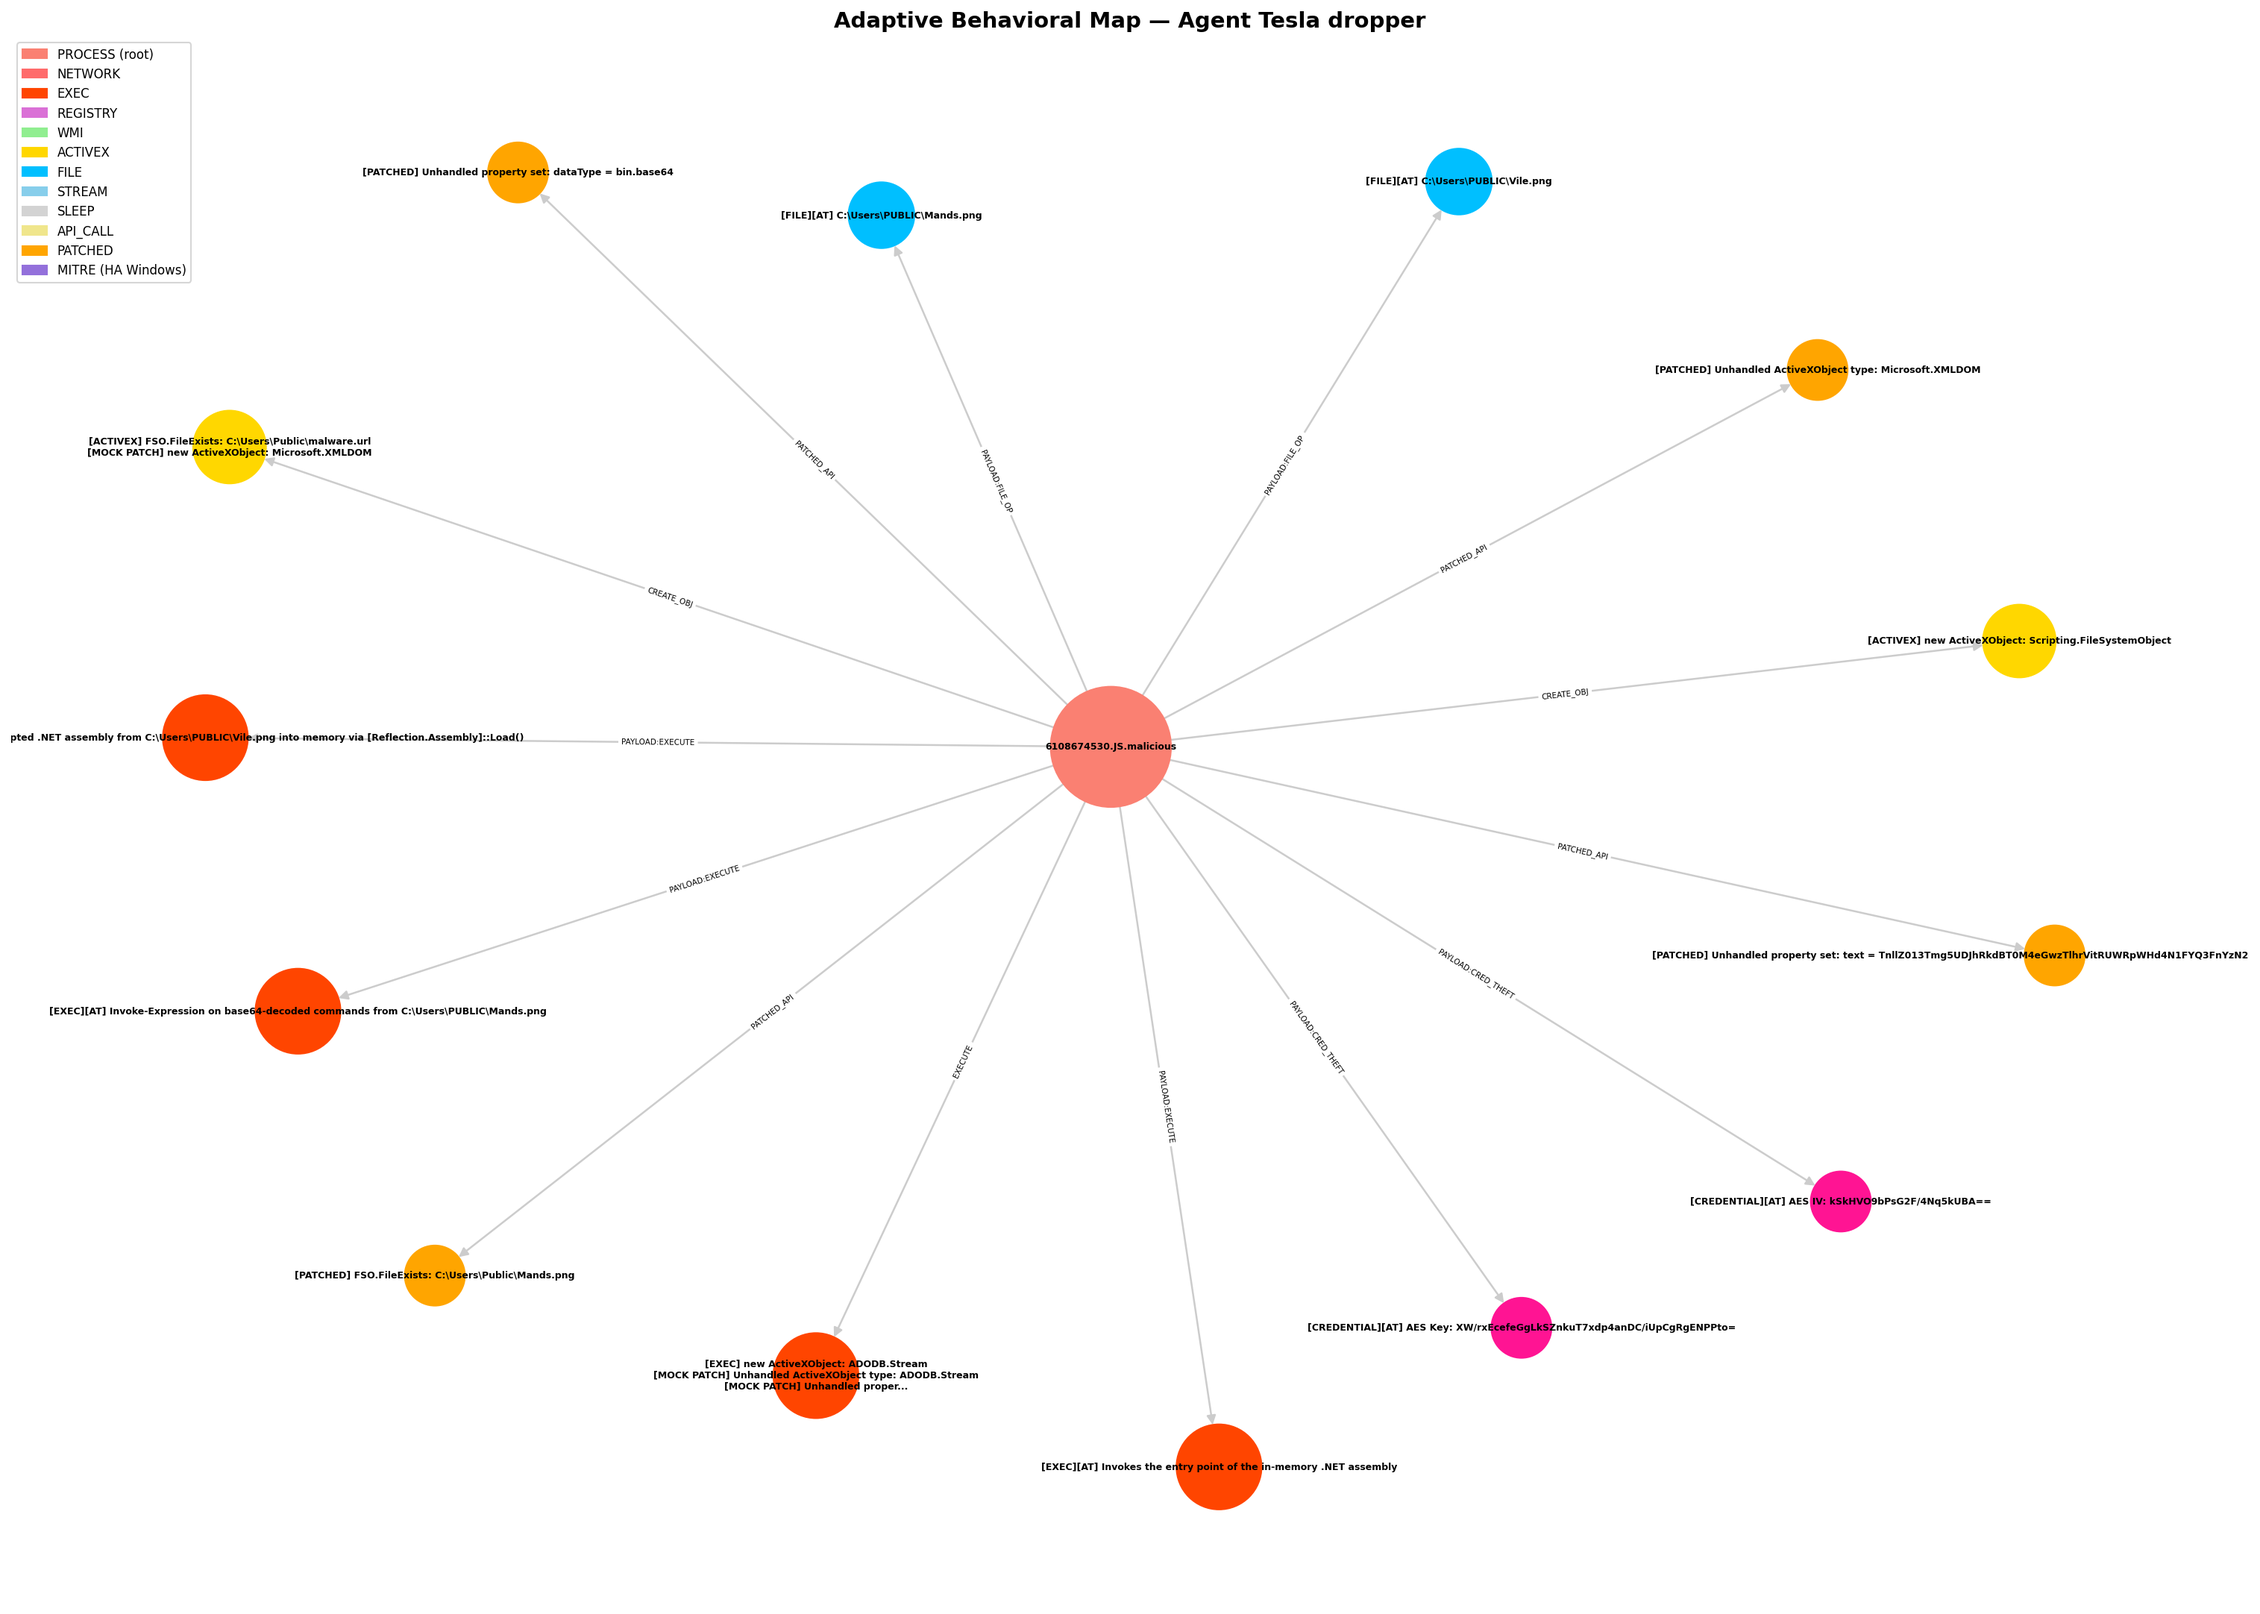
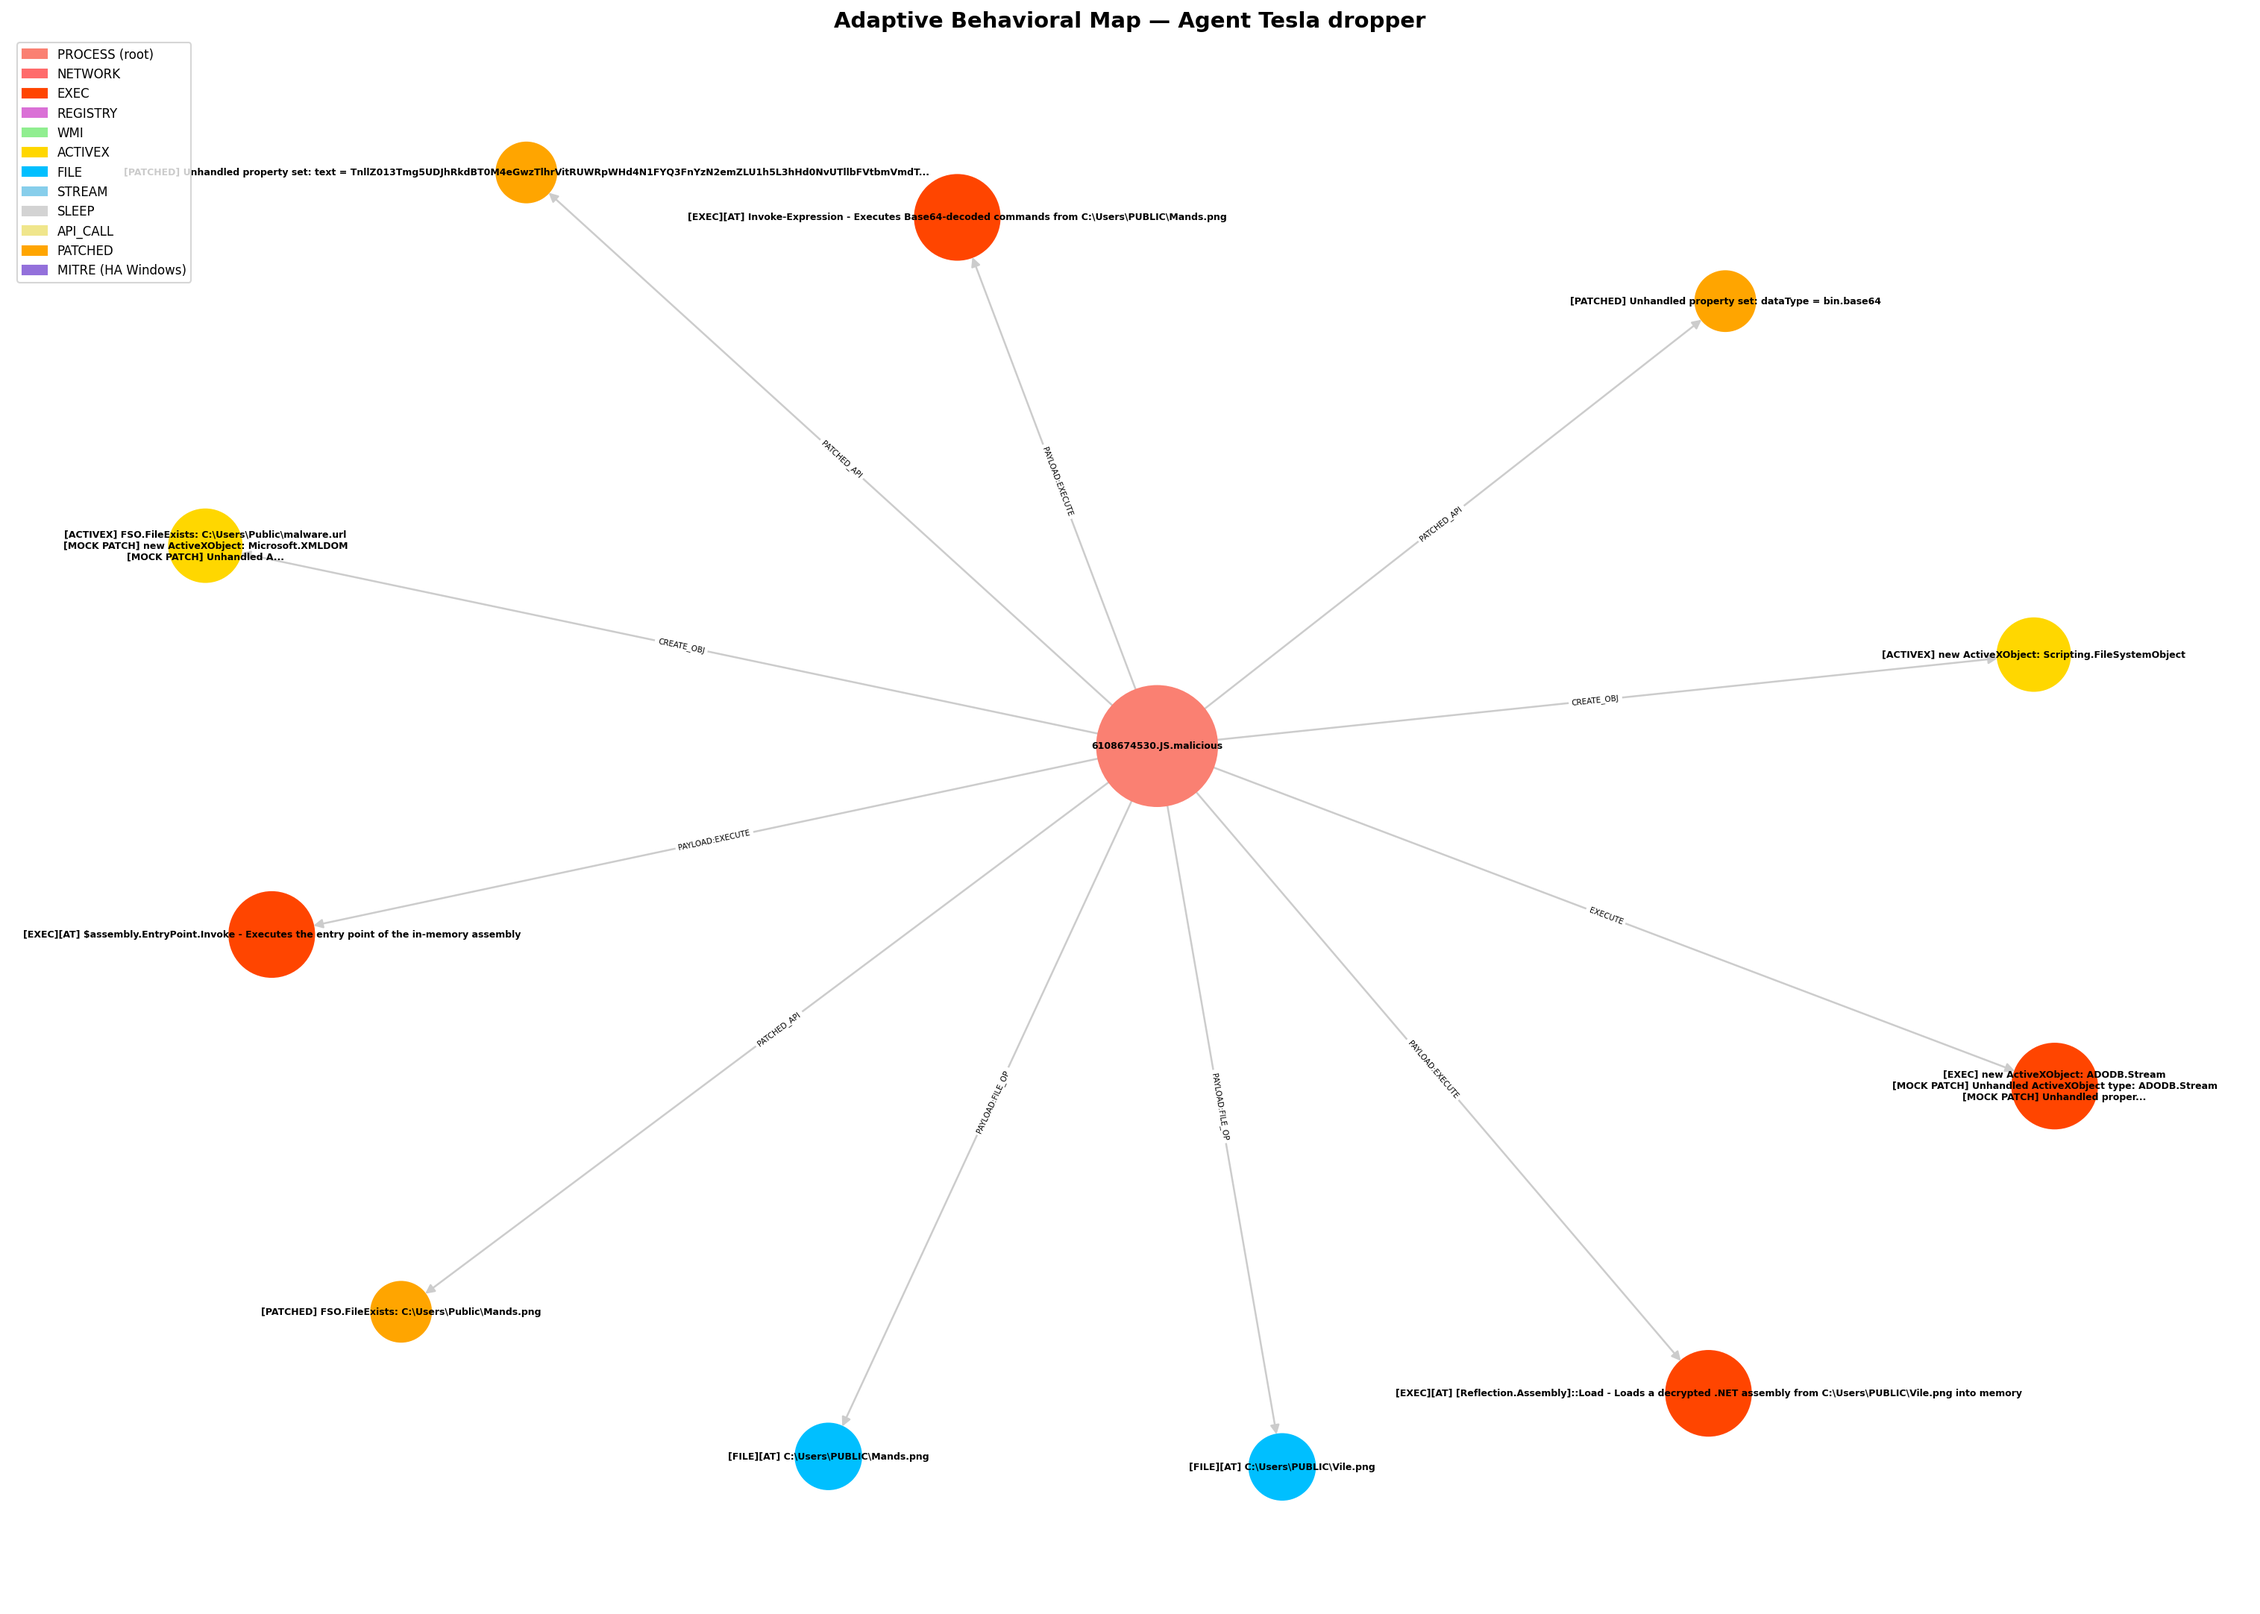
testing api -> deadend

diff --git a/testing/e2b_adaptive_sandbox.py b/testing/e2b_adaptive_sandbox.py
@@ -1006,53 +1006,87 @@ def hybrid_analysis_enrich(filename: str, G: nx.DiGraph):
     # --- Step 1: search for an existing Windows report by hash ---
     print(f"\n[HA] Searching for existing report (SHA256: {sha256[:16]}...)")
     job_id = None
+
+    def _parse_search_results(raw):
+        """Extract job_id from any HA search/overview response shape."""
+        nonlocal job_id
+        results = raw.get("result", raw) if isinstance(raw, dict) else raw
+        # /overview returns a single dict with a "submissions" list
+        if isinstance(raw, dict) and "submissions" in raw:
+            subs = raw["submissions"]
+            if isinstance(subs, list) and subs:
+                job_id = _extract_job_id(subs[0]) or sha256
+                print(f"[HA] Found via overview, using: {job_id}")
+                return
+        if isinstance(results, list) and results:
+            for env_pref in (160, 120, 110):
+                for res in results:
+                    if res.get("environment_id") == env_pref:
+                        job_id = _extract_job_id(res)
+                        print(f"[HA] Found existing report (env {env_pref}): {job_id}")
+                        return
+            job_id = _extract_job_id(results[0])
+            print(f"[HA] Using first available report: {job_id}")
+
+    # Try 1: POST /search/hash with JSON body (HA v2 accepts both form + JSON)
     try:
-        r = requests.post(f"{BASE}/search/hash", headers=hdrs,
-                          data={"hash": sha256}, timeout=30)
-        if not r.ok:
-            print(f"[HA] Search HTTP {r.status_code}: {r.text[:200]}")
+        r = requests.post(
+            f"{BASE}/search/hash",
+            headers={**hdrs, "Content-Type": "application/json"},
+            json={"hash": sha256},
+            timeout=30,
+        )
+        print(f"[HA] Search (JSON) HTTP {r.status_code}")
+        if r.ok:
+            _parse_search_results(r.json())
         else:
-            raw = r.json()
-            # API v2 returns {"count":N,"result":[...]} or a plain list
-            results = raw.get("result", raw) if isinstance(raw, dict) else raw
-            if isinstance(results, list) and results:
-                for env_pref in (160, 120, 110):
-                    for res in results:
-                        if res.get("environment_id") == env_pref:
-                            job_id = _extract_job_id(res)
-                            print(f"[HA] Found existing report (env {env_pref}): {job_id}")
-                            break
-                    if job_id:
-                        break
-                if not job_id:
-                    job_id = _extract_job_id(results[0])
-                    print(f"[HA] Using first available report: {job_id}")
-            else:
-                print(f"[HA] No prior report in HA. Raw: {str(raw)[:200]}")
+            print(f"[HA] Search JSON body failed: {r.text[:200]}")
     except Exception as e:
-        print(f"[HA] Hash search error: {e}")
+        print(f"[HA] Search JSON error: {e}")
+
+    # Try 2: GET /overview/{sha256} — direct hash lookup, no search needed
+    if not job_id:
+        try:
+            r = requests.get(f"{BASE}/overview/{sha256}", headers=hdrs, timeout=30)
+            print(f"[HA] Overview HTTP {r.status_code}")
+            if r.ok:
+                _parse_search_results(r.json())
+                # NOTE: if overview exists but no sandbox submission found, job_id
+                # stays None — we must still submit to get real behavior data.
+                if not job_id:
+                    print(f"[HA] Hash known to HA but no sandbox report — will submit.")
+            else:
+                print(f"[HA] Overview: {r.text[:200]}")
+        except Exception as e:
+            print(f"[HA] Overview error: {e}")
 
     # --- Step 2: submit if no existing report found ---
     if not job_id:
-        print("[HA] Submitting to Windows 10 sandbox (env 160)...")
-        try:
-            with open(full_path, "rb") as fh:
-                r = requests.post(
-                    f"{BASE}/submit/file",
-                    headers=hdrs,
-                    files={"file": (filename, fh, "application/octet-stream")},
-                    data={"environment_id": 160, "allow_community_access": True},
-                    timeout=60,
-                )
-            if not r.ok:
-                print(f"[HA] Submit HTTP {r.status_code}: {r.text[:300]}")
-                return
-            sub = r.json()
-            print(f"[HA] Submit response keys: {list(sub.keys())}")
-            job_id = _extract_job_id(sub)
-            print(f"[HA] Submitted. Job ID: {job_id}")
-        except Exception as e:
-            print(f"[HA] Submission failed: {e}")
+        # NOTE: do NOT set Content-Type manually when using files= — requests sets
+        # multipart/form-data with boundary automatically.
+        submit_hdrs = {"api-key": api_key, "User-Agent": "Falcon Sandbox", "Accept": "application/json"}
+        submitted = False
+        for submit_url in [f"{BASE}/submit/file", f"{BASE}/submissions"]:
+            print(f"[HA] Submitting to Windows 10 sandbox (env 160) → {submit_url}")
+            try:
+                with open(full_path, "rb") as fh:
+                    r = requests.post(
+                        submit_url,
+                        headers=submit_hdrs,
+                        files={"file": (filename, fh, "application/octet-stream")},
+                        data={"environment_id": "160"},
+                        timeout=60,
+                    )
+                print(f"[HA] Submit HTTP {r.status_code}: {r.text[:400]}")
+                if r.ok:
+                    sub = r.json()
+                    job_id = _extract_job_id(sub)
+                    print(f"[HA] Submitted. Job ID: {job_id}")
+                    submitted = True
+                    break
+            except Exception as e:
+                print(f"[HA] Submission error ({submit_url}): {e}")
+        if not submitted:
             return
 
     if not job_id:
@@ -1097,42 +1131,63 @@ def hybrid_analysis_enrich(filename: str, G: nx.DiGraph):
             G.add_edge(root_node, node_key, action=f"HA:{edge}")
             added += 1
 
-    # Network
-    for net in report.get("network_list", []) or []:
-        url = net.get("url") or net.get("host") or ""
-        method = (net.get("request_method") or "CONNECT").upper()
+    # Dump top-level keys so we can see the actual schema on first run
+    print(f"[HA] Report top-level keys: {list(report.keys())[:30]}")
+
+    # HA summary uses several naming conventions — cover all of them.
+
+    # Network requests  (key: "network_list" | "requests" | "http_requests")
+    for net in (report.get("network_list") or report.get("requests") or
+                report.get("http_requests") or []):
+        if not isinstance(net, dict): continue
+        url = net.get("url") or net.get("request") or net.get("host") or ""
+        method = (net.get("request_method") or net.get("method") or "CONNECT").upper()
         if url:
             _ha_node("NETWORK", "#FF6B6B", f"{method} {url}", "HTTP_REQUEST")
 
-    # DNS / hosts
-    for host in report.get("hosts", []) or []:
-        _ha_node("NETWORK", "#FF6B6B", f"DNS {host}", "DNS_LOOKUP")
+    # DNS / contacted hosts  (key: "hosts" | "domains" | "compromised_hosts")
+    for item in (report.get("hosts") or report.get("domains") or
+                 report.get("compromised_hosts") or []):
+        if isinstance(item, dict):
+            host = item.get("ip") or item.get("host") or item.get("domain") or ""
+        else:
+            host = str(item)
+        if host:
+            _ha_node("NETWORK", "#FF6B6B", f"DNS/IP {host}", "DNS_LOOKUP")
 
-    # Registry
-    for reg in report.get("registry", []) or []:
-        key = reg.get("key") or reg.get("registry_key") or ""
-        op  = (reg.get("operation") or "ACCESS").upper()
+    # Registry  (key: "registry" | "registry_list")
+    for reg in (report.get("registry") or report.get("registry_list") or []):
+        if not isinstance(reg, dict): continue
+        key = reg.get("key") or reg.get("registry_key") or reg.get("value_name") or ""
+        op  = (reg.get("operation") or reg.get("status") or "ACCESS").upper()
         if key:
             _ha_node("REGISTRY", "#DA70D6", f"{op}: {key}", "REG_ACCESS")
 
-    # Processes
-    for proc in report.get("process_list", []) or []:
-        label = proc.get("cmd") or proc.get("command_line") or proc.get("name") or ""
+    # Processes  (key: "process_list" | "processes")
+    for proc in (report.get("process_list") or report.get("processes") or []):
+        if not isinstance(proc, dict): continue
+        label = (proc.get("cmd") or proc.get("command_line") or
+                 proc.get("commandline") or proc.get("name") or "")
         if label:
             _ha_node("EXEC", "#FF4500", label, "PROCESS_SPAWN")
 
-    # File operations
-    for fop in report.get("file_details", []) or []:
-        path = fop.get("file_path") or fop.get("filename") or ""
-        op   = (fop.get("operation") or "FILE_OP").upper()
+    # File operations  (key: "file_details" | "files" | "file_activity")
+    for fop in (report.get("file_details") or report.get("files") or
+                report.get("file_activity") or []):
+        if not isinstance(fop, dict): continue
+        path = (fop.get("file_path") or fop.get("filename") or
+                fop.get("path") or fop.get("name") or "")
+        op   = (fop.get("operation") or fop.get("type") or "FILE_OP").upper()
         if path:
             _ha_node("FILE", "#00BFFF", f"{op}: {path}", "FILE_OP")
 
-    # MITRE ATT&CK
-    for m in report.get("mitre_attcks", []) or []:
-        tid       = m.get("attck_id") or ""
-        technique = m.get("technique") or ""
-        tactic    = (m.get("tactic") or "unknown").upper()[:20]
+    # MITRE ATT&CK  (key: "mitre_attcks" | "mitre_attacks" | "attack_matrix")
+    for m in (report.get("mitre_attcks") or report.get("mitre_attacks") or
+              report.get("attack_matrix") or []):
+        if not isinstance(m, dict): continue
+        tid       = m.get("attck_id") or m.get("id") or m.get("technique_id") or ""
+        technique = m.get("technique") or m.get("name") or ""
+        tactic    = (m.get("tactic") or m.get("category") or "unknown").upper()[:20]
         if tid:
             _ha_node("MITRE", "#9370DB", f"{tid}: {technique}", f"MITRE_{tactic}")
 

diff --git a/testing/ha_test.py b/testing/ha_test.py
@@ -1,0 +1,44 @@
+"""Quick Hybrid Analysis API diagnostic — run with: python ha_test.py"""
+import os, hashlib, requests
+from pathlib import Path
+from dotenv import load_dotenv
+
+load_dotenv()
+api_key = os.environ.get("HYBRID_ANALYSIS_API_KEY", "")
+print(f"API key loaded: {'YES (' + api_key[:8] + '...)' if api_key else 'NO — check .env'}")
+print(f"Auth level: restricted (level 1) — submissions NOT available on free tier\n")
+
+BASE = "https://www.hybrid-analysis.com/api/v2"
+hdrs = {"api-key": api_key, "User-Agent": "Falcon Sandbox", "Accept": "application/json"}
+
+# Compute REAL sha256 from the actual file
+file_path = Path(__file__).parent / "6108674530.JS.malicious"
+if not file_path.exists():
+    print(f"ERROR: {file_path} not found")
+    exit(1)
+SHA = hashlib.sha256(file_path.read_bytes()).hexdigest()
+print(f"Real SHA256: {SHA}\n")
+
+tests = [
+    ("POST /search/hash — params= (URL query string)",
+     lambda: requests.post(f"{BASE}/search/hash", headers=hdrs,
+                           params={"hash": SHA}, timeout=10)),
+
+    ("GET  /overview/{sha256} (real hash)",
+     lambda: requests.get(f"{BASE}/overview/{SHA}", headers=hdrs, timeout=10)),
+
+    ("GET  /report/{sha256}/summary (real hash — might work for known malware)",
+     lambda: requests.get(f"{BASE}/report/{SHA}/summary", headers=hdrs, timeout=10)),
+
+    ("GET  /report/{sha256}/state",
+     lambda: requests.get(f"{BASE}/report/{SHA}/state", headers=hdrs, timeout=10)),
+]
+
+for name, fn in tests:
+    try:
+        r = fn()
+        body = r.text[:500]
+        print(f"[{r.status_code}] {name}")
+        print(f"    {body}\n")
+    except Exception as e:
+        print(f"[ERR] {name}\n    {e}\n")
